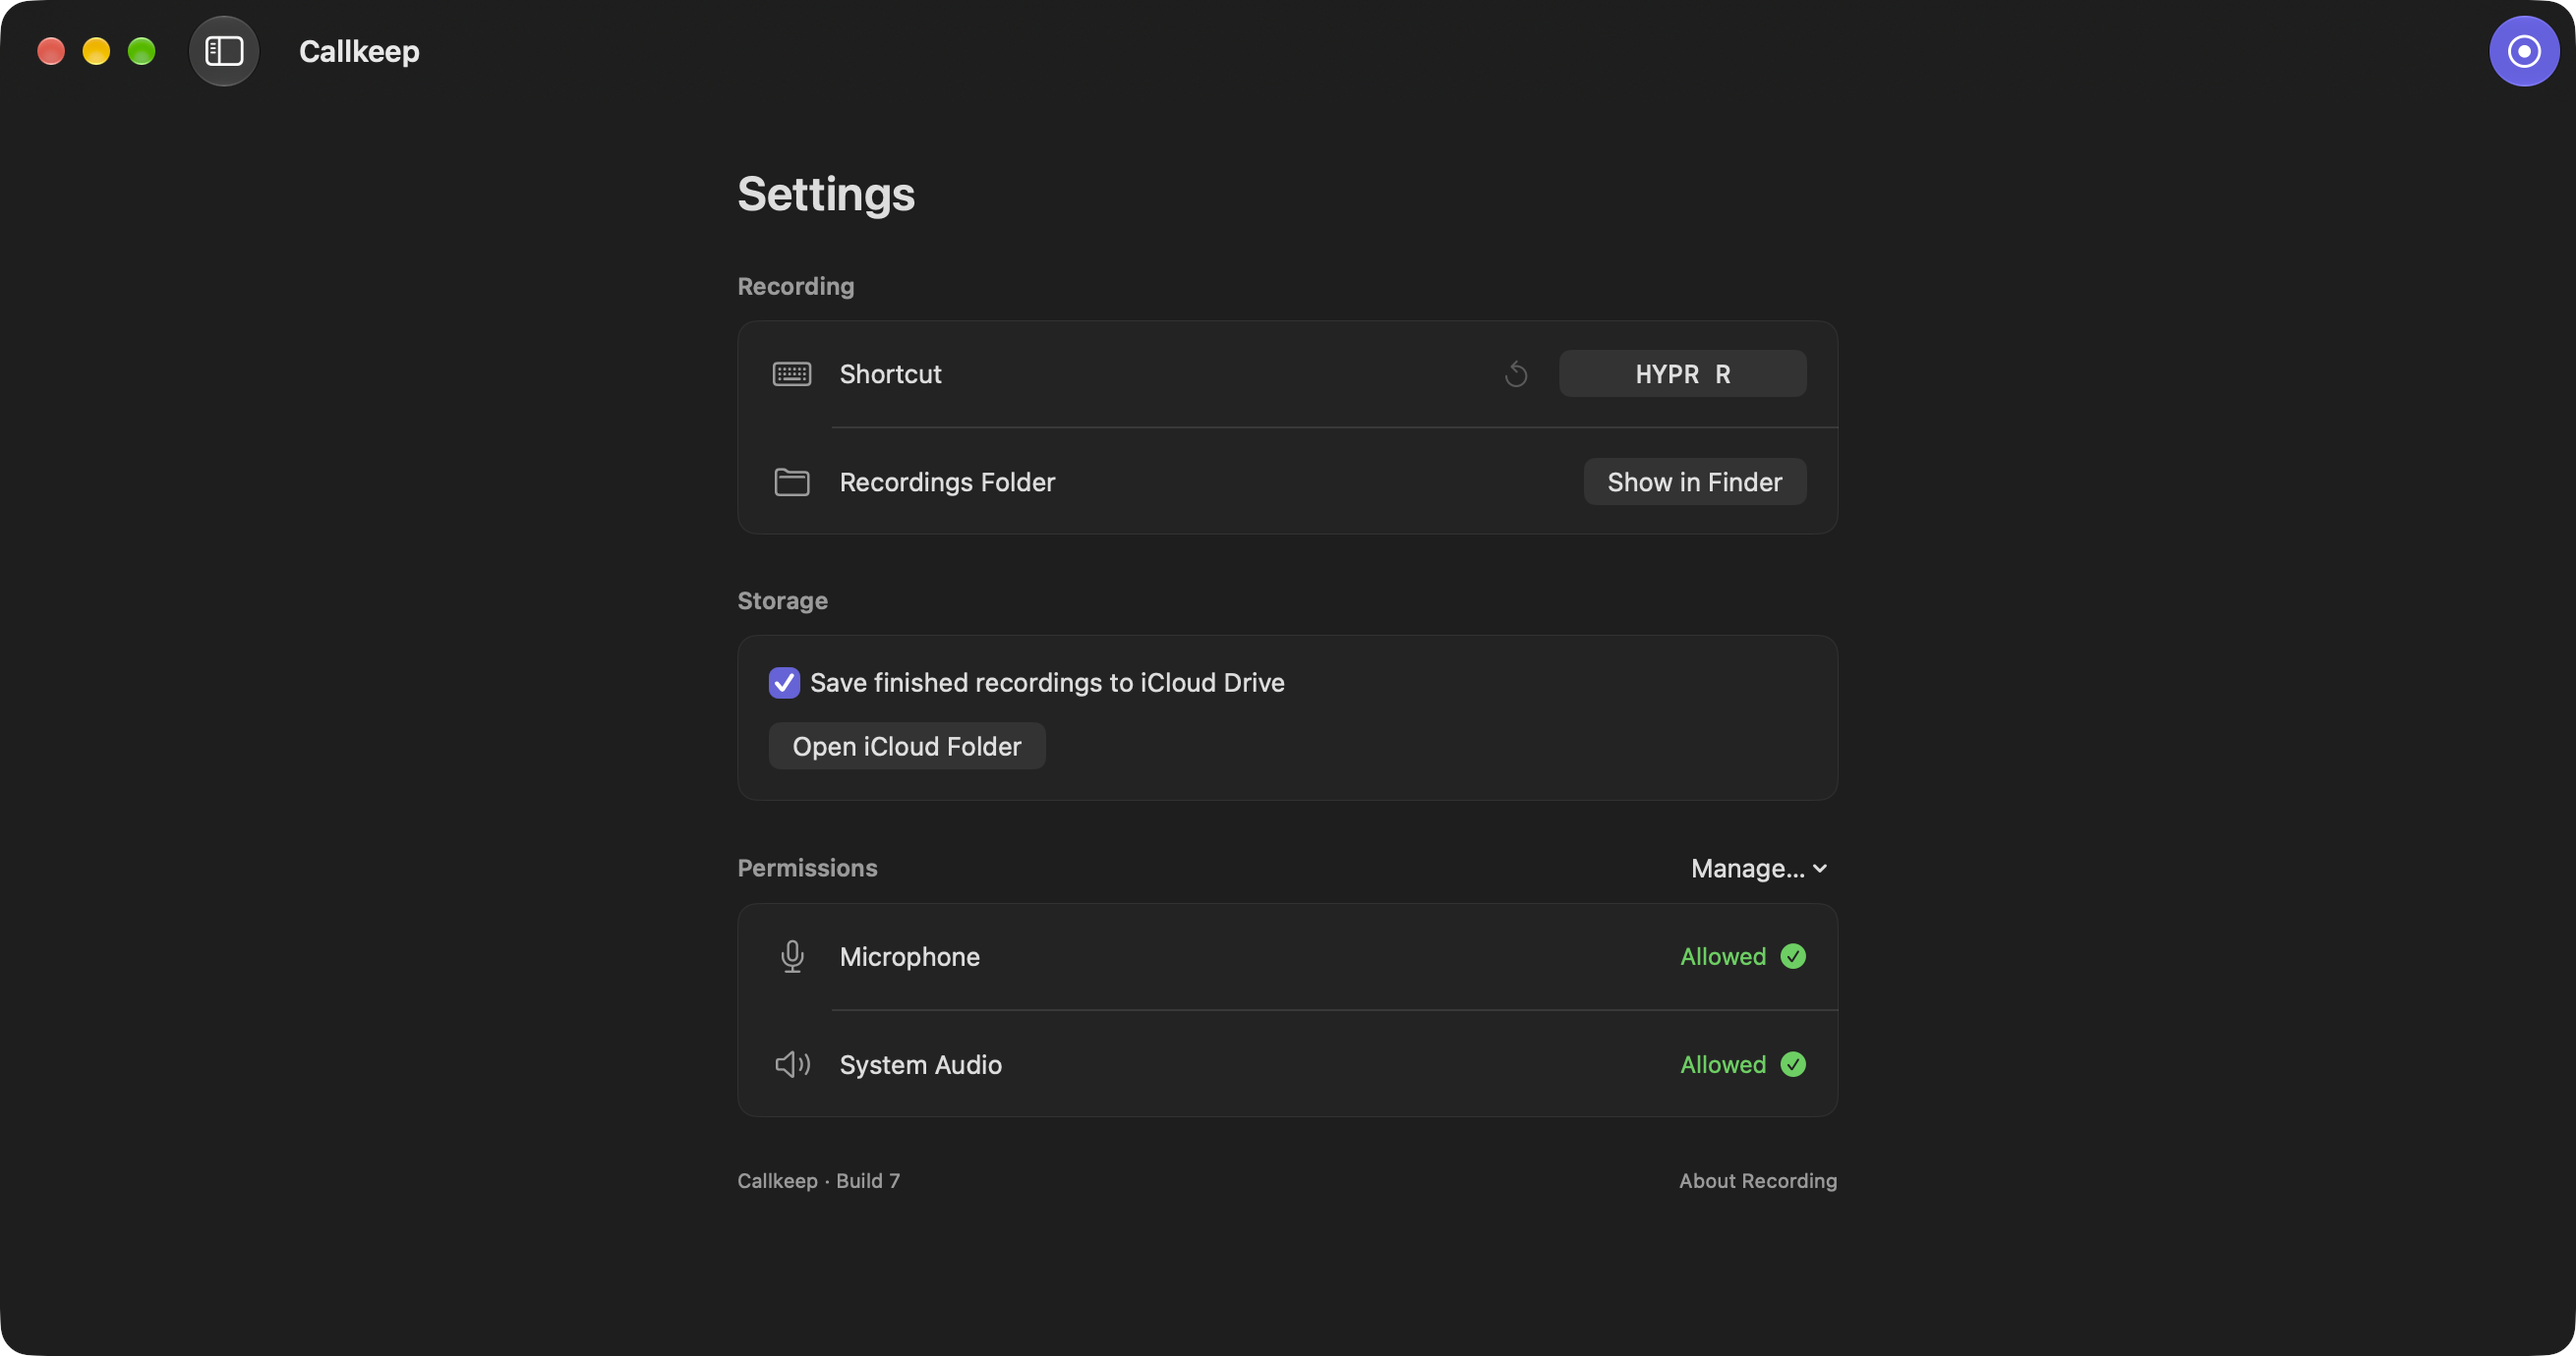
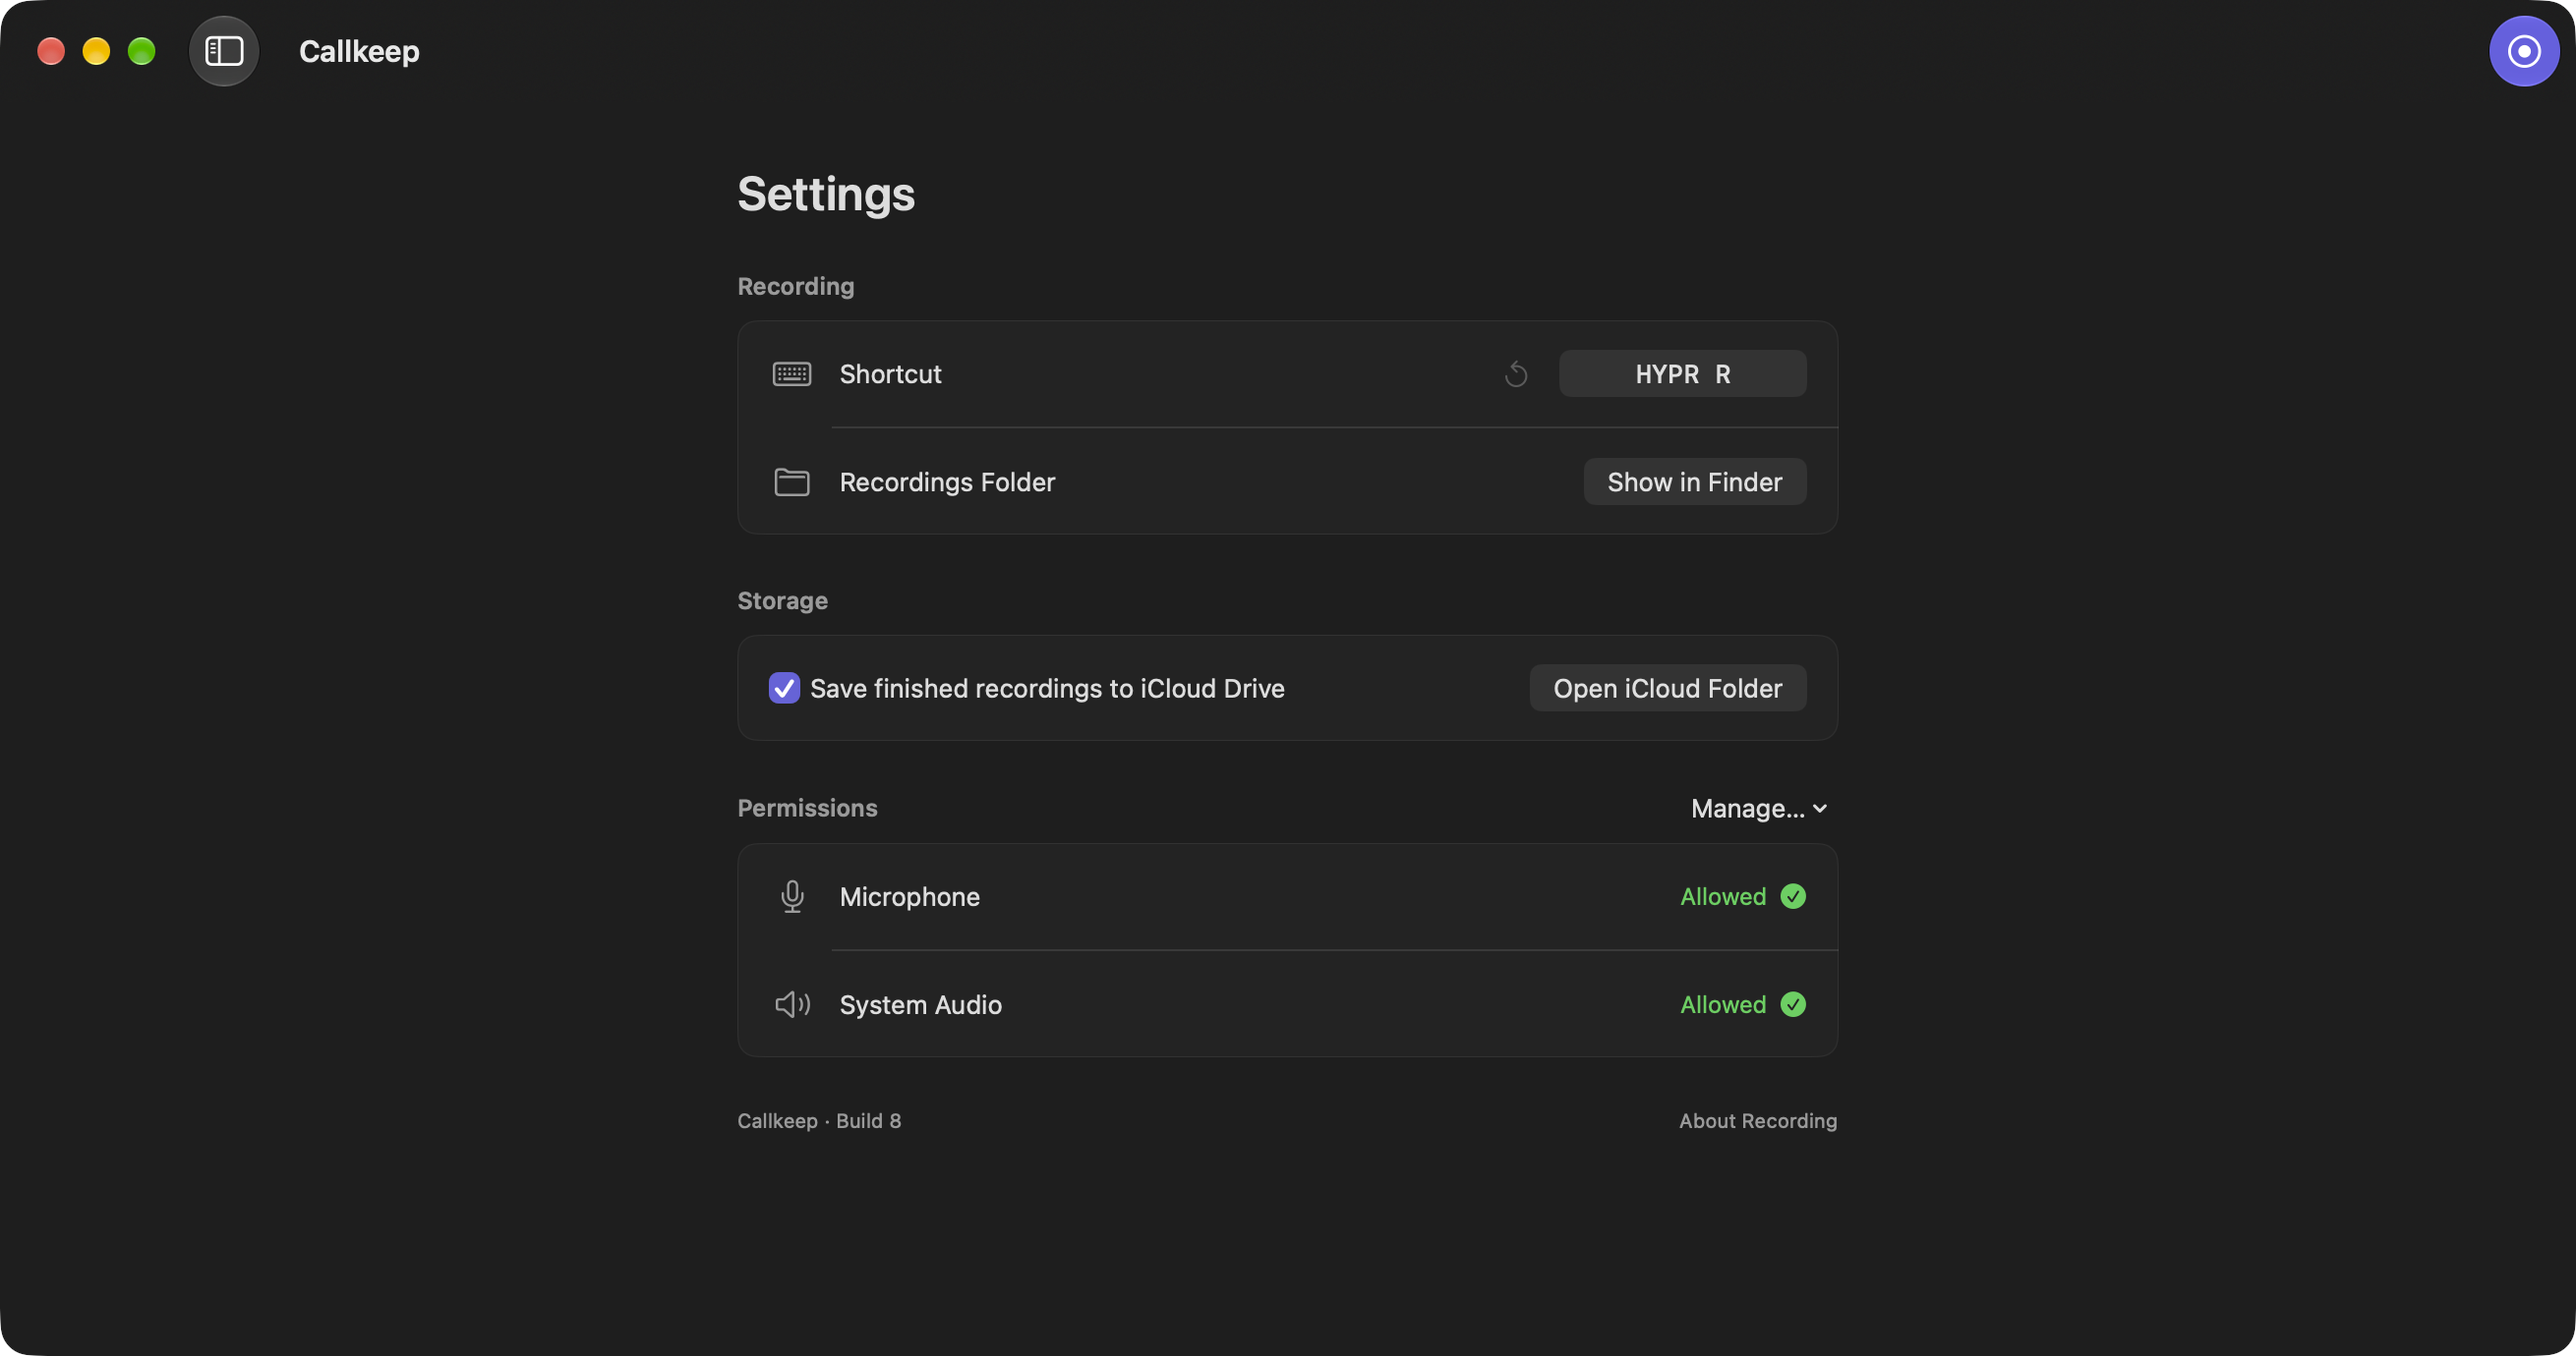
Align iCloud folder action with other settings controls

diff --git a/Sources/Callkeep/SettingsView.swift b/Sources/Callkeep/SettingsView.swift
@@ -40,24 +40,26 @@ struct SettingsView: View {
                     }
                 }
                 section("Storage") {
-                    VStack(alignment: .leading, spacing: 12) {
-                        Toggle("Save finished recordings to iCloud Drive", isOn: $model.iCloudEnabled)
-                            .onChange(of: model.iCloudEnabled) { _, _ in model.updateStorage() }
-                            .disabled(model.isRecording || model.isBusy || model.isPreparingStorage)
-                        if model.storageNeedsRetry {
-                            Text(model.storageStatus).font(.callout).foregroundStyle(.secondary)
-                        }
-                        HStack {
+                    VStack(alignment: .leading, spacing: 0) {
+                        HStack(spacing: 12) {
+                            Toggle("Save finished recordings to iCloud Drive", isOn: $model.iCloudEnabled)
+                                .onChange(of: model.iCloudEnabled) { _, _ in model.updateStorage() }
+                                .disabled(model.isRecording || model.isBusy || model.isPreparingStorage)
+                            Spacer()
                             if model.isPreparingStorage { ProgressView().controlSize(.small) }
                             if model.iCloudEnabled, let folder = model.store?.archiveRoot {
                                 Button("Open iCloud Folder") { NSWorkspace.shared.open(folder) }
                             }
-                            if model.storageNeedsRetry {
+                        }.frame(minHeight: 54).padding(.horizontal, 16)
+                        if model.storageNeedsRetry {
+                            HStack(alignment: .top, spacing: 12) {
+                                Text(model.storageStatus).font(.callout).foregroundStyle(.secondary)
+                                    .frame(maxWidth: .infinity, alignment: .leading)
                                 Button("Retry iCloud Drive") { model.updateStorage() }
                                     .disabled(model.isRecording || model.isBusy || model.isPreparingStorage || !model.iCloudEnabled)
-                            }
+                            }.padding([.horizontal, .bottom], 16)
                         }
-                    }.padding(16)
+                    }
                 }
                 VStack(alignment: .leading, spacing: 10) {
                     HStack {

diff --git a/docs/images/README.md b/docs/images/README.md
@@ -1,11 +1,11 @@
 # App screenshots
 
-Captured from the native macOS app on November 2, 2026 (Build 7 UI).
+Captured from the native macOS app on November 2, 2026 (Build 7 library/player/recording; Build 8 Settings).
 
 - `library.png`: library and player, 2080 × 1380.
 - `player.png`: playback with sidebar hidden, 2080 × 1380.
 - `recording.png`: live waveform, 2620 × 1380.
-- `settings.png`: shortcut, native iCloud storage, and permission status, 2620 × 1380.
+- `settings.png`: shortcut, native iCloud storage, and permission status, 2620 × 1980.
 - `icon.png`: app icon from the asset catalog.
 
 The window captures are unedited PNGs from macOS `screencapture -o -l`, preserving transparency at rounded corners. No white background is baked in.
